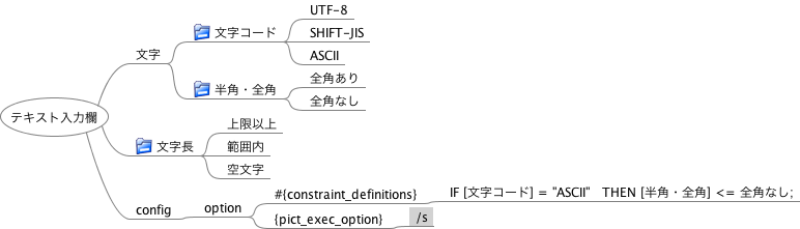
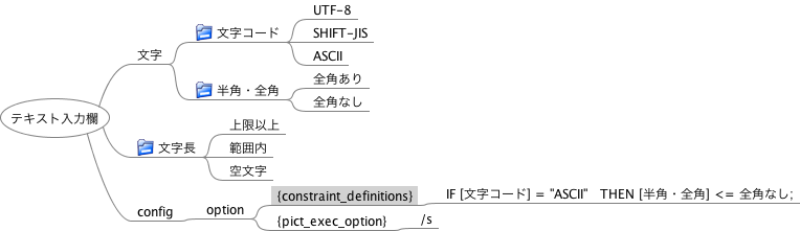
refactor

diff --git a/fmpict/fmpict.py b/fmpict/fmpict.py
@@ -1,5 +1,5 @@
 # coding: utf-8
-"""pairwise testing tool using FreeMind and PICT
+"""testing tool using FreeMind and PICT
 Site: https://github.com/hiro-iseri/fmpict/
 License: MIT
 """
@@ -12,15 +12,12 @@ import os
 import codecs
 import re
 
-"""
-TODO:
-support pict alias
-add custom option of node mark
-add freemind syntax checking func
+"""Coding policy:
+- support both python 2.7 and python 3
 """
 
 class NodeType(object):
-    """type of Freeminde node"""
+    """type of FreeMind node"""
     ETC = 0
     NO_DATA = 1
     COMMENT = 2
@@ -35,9 +32,11 @@ class NodeType(object):
 
     @staticmethod
     def is_valid_data_node(node_type):
+        """check value(or class)"""
         return node_type == NodeType.VAILD_DATA or node_type == NodeType.LINK_REFER
 
 class NodeMark(object):
+    """providing identification capabilities for node type"""
     _INITIAL_PREFIX = {NodeType.COMMENT:'#', NodeType.LINK_DEF:'>',
                        NodeType.LINK_REFER:'<', NodeType.FACTOR:'@'}
     prefix = _INITIAL_PREFIX
@@ -50,8 +49,9 @@ class NodeMark(object):
 
     @classmethod
     def init(cls):
-        prefix = cls._INITIAL_PREFIX
-        mark_word = cls._INITIAL_MARK_WORD
+        """reset customize"""
+        cls.prefix = cls._INITIAL_PREFIX
+        cls.mark_word = cls._INITIAL_MARK_WORD
     
     @classmethod
     def get_node_type(cls, node_text):
@@ -64,6 +64,7 @@ class NodeMark(object):
                     return NodeType.NO_DATA
                 else:
                     return key        
+
         for key, value in cls.mark_word.items():
             if value in node_text:
                 return key
@@ -107,14 +108,14 @@ class FMCTMGenerator(object):
         self._exclude_tag_list = []
     
     def _init_gendata(self):
-        """initialize analysis data"""
+        """reset analysis data"""
         self._clsf_dict = {}
         self._pict_exec_option = ""
         self._insert_text = {}
         self._link_def = {}
         self._exclude_tag_list = []
 
-    def get_testcon(self):
+    def get_last_testconditions(self):
         """return last pict data"""
         return self._clsf_dict
 
@@ -152,7 +153,7 @@ class FMCTMGenerator(object):
         cf_text = FMCTMGenerator._get_text_str(parent)
         if cf_text[0] == NodeMark.prefix[NodeType.FACTOR]:
             cf_text = cf_text[1:]
-        
+
         class_list = []
         for node in [x for x in list(parent) if 'TEXT' in x.attrib]:
             child_node_type = FMCTMGenerator._get_node_type(node)
@@ -221,12 +222,10 @@ class FMCTMGenerator(object):
                     new_value_list.append(value_item)
             self._clsf_dict[key] = new_value_list
 
-    def generate(self, input_file, only_gen_pictfile=False, save_pictfile=False, pictfile_path="", exclude_tag_list=""):
-        """generates test condition from FreeMind file"""
-
-        self._init_gendata()
+    
+    def get_testconditions_from_fmfile(self, freemind_file_path, exclude_tag_list=""):
         try:
-            cls_tree = ET.parse(input_file)
+            cls_tree = ET.parse(freemind_file_path)
         except ET.ParseError:
             Msg.p(Msg.ERR, 'cannot perse freemind file')
             raise
@@ -234,20 +233,31 @@ class FMCTMGenerator(object):
             Msg.p(Msg.ERR, 'cannot open freemind file')
             raise
 
+        return self.get_testconditions_from_fmet(cls_tree, exclude_tag_list)
+    
+    def get_testconditions_from_fmet(self, fm_tree, exclude_tag_list=""):
         self._exclude_tag_list = exclude_tag_list
-        self._get_testcon_from_node(cls_tree.getroot())
+        self._get_testcon_from_node(fm_tree.getroot())
         self._replace_link_def()
+        return self._clsf_dict
 
-        if not self._clsf_dict:
+    def generate(self, input_file, only_gen_pictfile=False, save_pictfile=False, pictfile_path="", exclude_tag_list=""):
+        """generates test condition from FreeMind file"""
+
+        self._init_gendata()
+
+        clsf_dict = self.get_testconditions_from_fmfile(input_file, exclude_tag_list)
+
+        if not clsf_dict:
             Msg.p(Msg.ERR, 'freemind file is empty')
             return
 
         if pictfile_path:
             file_path = pictfile_path
         else:
-            file_path = "temp.txt"
+            file_path = PictRunner.DEFAULT_INPUT_FILE_PATH
 
-        PictRunner.gen_pict_input_file(file_path, self._clsf_dict, self._insert_text)
+        PictRunner.gen_pict_input_file(file_path, clsf_dict, self._insert_text)
 
         if not only_gen_pictfile:
             PictRunner.print_testcondition(file_path, self._pict_exec_option)
@@ -256,9 +266,12 @@ class FMCTMGenerator(object):
             PictRunner.delete_pict_file(file_path)
 
 class PictRunner(object):
+    DEFAULT_INPUT_FILE_PATH = "temp.txt"
+
     @staticmethod
     def gen_pict_input_file(file_path, clsf_dict, insert_text_dict):
         """generate pict input file"""
+
         try:
             with codecs.open(file_path, "w", sys.stdout.encoding) as pict_input_file:
                 for key, classlist in clsf_dict.items():
@@ -287,7 +300,7 @@ class PictRunner(object):
         os.remove(file_path)
 
 class Msg(object):
-    """Manage messages to users"""
+    """managing message for users"""
     ERR = "Error"
     WRN = "Warning"
     INF = "Info"
@@ -303,17 +316,19 @@ def _get_parser():
         description='This tool generates test cases using freemind and pict')
     parser.add_argument('freemind_file_path', help='*.mm input file', type=argparse.FileType('r'))
     parser.add_argument('-p', '--pict_file_path', help='save pict file to specified path', type=str)
-    parser.add_argument('-g', '--genparamlist', help='execute until pict file generation', action="store_true")
+    parser.add_argument(
+        '-g', '--genparamlist', help='execute until pict file generation', action="store_true")
     parser.add_argument('-s', '--savepictfile', help='save pict file', action="store_true")
-    parser.add_argument('-e', '--exclude_tag_list', help='exclude specified tag in generating', type=str)
+    parser.add_argument(
+        '-e', '--exclude_tag_list', help='exclude specified tag in generating', type=str)
     return parser
 
-def main():
+def run():
     args = _get_parser().parse_args()
     gen = FMCTMGenerator()
     gen.generate(args.freemind_file_path, args.genparamlist,
-                 args.savepictfile, args.pict_file_path, 
+                 args.savepictfile, args.pict_file_path,
                  NodeMark.get_tag_list(args.exclude_tag_list))
 
 if __name__ == '__main__':
-    main()
+    run()

diff --git a/option_rule.mm b/option_rule.mm
@@ -22,7 +22,7 @@
 </node>
 <node CREATED="1514919649639" ID="ID_1631638998" MODIFIED="1514919650687" POSITION="right" TEXT="config">
 <node CREATED="1514951446128" ID="ID_194837869" MODIFIED="1514951449691" TEXT="option">
-<node CREATED="1514951460617" ID="ID_916172319" MODIFIED="1515417613638" TEXT="#{constraint_definitions}">
+<node CREATED="1514951460617" ID="ID_916172319" MODIFIED="1515418112262" TEXT="{constraint_definitions}">
 <node CREATED="1515005549099" ID="ID_1650301001" MODIFIED="1515005710696" TEXT="IF [&#x6587;&#x5b57;&#x30b3;&#x30fc;&#x30c9;] = &quot;ASCII&quot;   THEN [&#x534a;&#x89d2;&#x30fb;&#x5168;&#x89d2;] &lt;= &#x5168;&#x89d2;&#x306a;&#x3057;;"/>
 </node>
 <node CREATED="1514919653373" ID="ID_174303887" MODIFIED="1515417624493" TEXT="{pict_exec_option}">
